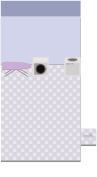
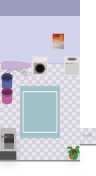
Added LivingMediation.png

diff --git a/OverworldMap.js b/OverworldMap.js
@@ -770,6 +770,9 @@ window.OverworldMaps = {
             // Bath
             "2, 4",
             "1, 4",
+            // Plants
+            "3, 4",
+            "5, 4",
           ].forEach((coord) => {
             let [x, y] = coord.split(",");
             walls[utils.asGridCoord(x, y)] = true;
@@ -865,6 +868,8 @@ window.OverworldMaps = {
             // Chest
             "4, 5",
             "5, 5",
+            // Plant
+            "6, 5",
           ].forEach((coord) => {
             let [x, y] = coord.split(",");
             walls[utils.asGridCoord(x, y)] = true;
@@ -1016,6 +1021,14 @@ window.OverworldMaps = {
             "2, 4",
             // Washing machine
             "4, 4",
+            // Plant
+            "4, 9",
+            // Sink
+            "0, 9",
+            "0, 8",
+            // Washing baskets
+            "0, 5",
+            "0, 6",
           ].forEach((coord) => {
             let [x, y] = coord.split(",");
             walls[utils.asGridCoord(x, y)] = true;
@@ -1105,6 +1118,8 @@ window.OverworldMaps = {
             "5, 9",
             "5, 10",
             "5, 11",
+            // Plants
+            "0, 5",
           ].forEach((coord) => {
             let [x, y] = coord.split(",");
             walls[utils.asGridCoord(x, y)] = true;
@@ -1179,6 +1194,9 @@ window.OverworldMaps = {
             // Bath
             "2, 4",
             "1, 4",
+            // Plants
+            "3, 4",
+            "5, 4",
           ].forEach((coord) => {
             let [x, y] = coord.split(",");
             walls[utils.asGridCoord(x, y)] = true;
@@ -1274,6 +1292,8 @@ window.OverworldMaps = {
             // Chest
             "4, 5",
             "5, 5",
+            // Plant
+            "6, 5",
           ].forEach((coord) => {
             let [x, y] = coord.split(",");
             walls[utils.asGridCoord(x, y)] = true;
@@ -1334,6 +1354,14 @@ window.OverworldMaps = {
             "2, 4",
             // Washing machine
             "4, 4",
+            // Plant
+            "4, 9",
+            // Sink
+            "0, 9",
+            "0, 8",
+            // Washing baskets
+            "0, 5",
+            "0, 6",
           ].forEach((coord) => {
             let [x, y] = coord.split(",");
             walls[utils.asGridCoord(x, y)] = true;
@@ -1423,6 +1451,8 @@ window.OverworldMaps = {
             "5, 9",
             "5, 10",
             "5, 11",
+            // Plants
+            "0, 5",
           ].forEach((coord) => {
             let [x, y] = coord.split(",");
             walls[utils.asGridCoord(x, y)] = true;

diff --git a/Content/Quests.js b/Content/Quests.js
@@ -7,28 +7,28 @@ const QUESTS = {
         type: "Plates",
         map: "Home",
         x: utils.withGrid(17),
-        y: utils.withGrid(10),
+        y: utils.withGrid(11),
       },
       {
         id: "Plate B",
         type: "Plates",
         map: "Home",
         x: utils.withGrid(17),
-        y: utils.withGrid(11),
+        y: utils.withGrid(12),
       },
       {
         id: "Plate C",
         type: "Plates",
         map: "Home",
         x: utils.withGrid(17),
-        y: utils.withGrid(12),
+        y: utils.withGrid(13),
       },
       {
         id: "Plate D",
         type: "Plates",
         map: "Home",
         x: utils.withGrid(17),
-        y: utils.withGrid(13),
+        y: utils.withGrid(14),
       },
       {
         id: "Chopstick A",
